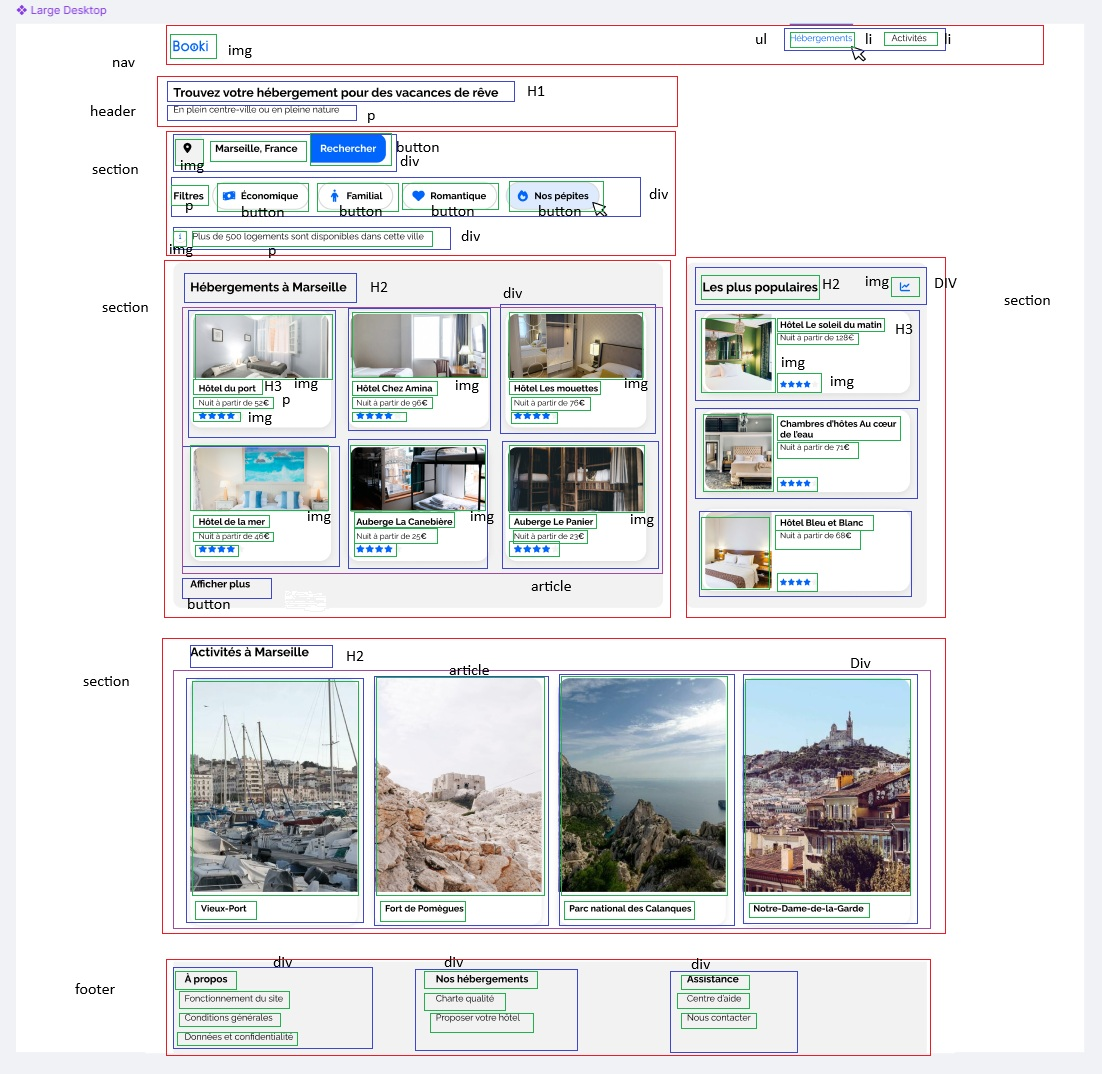
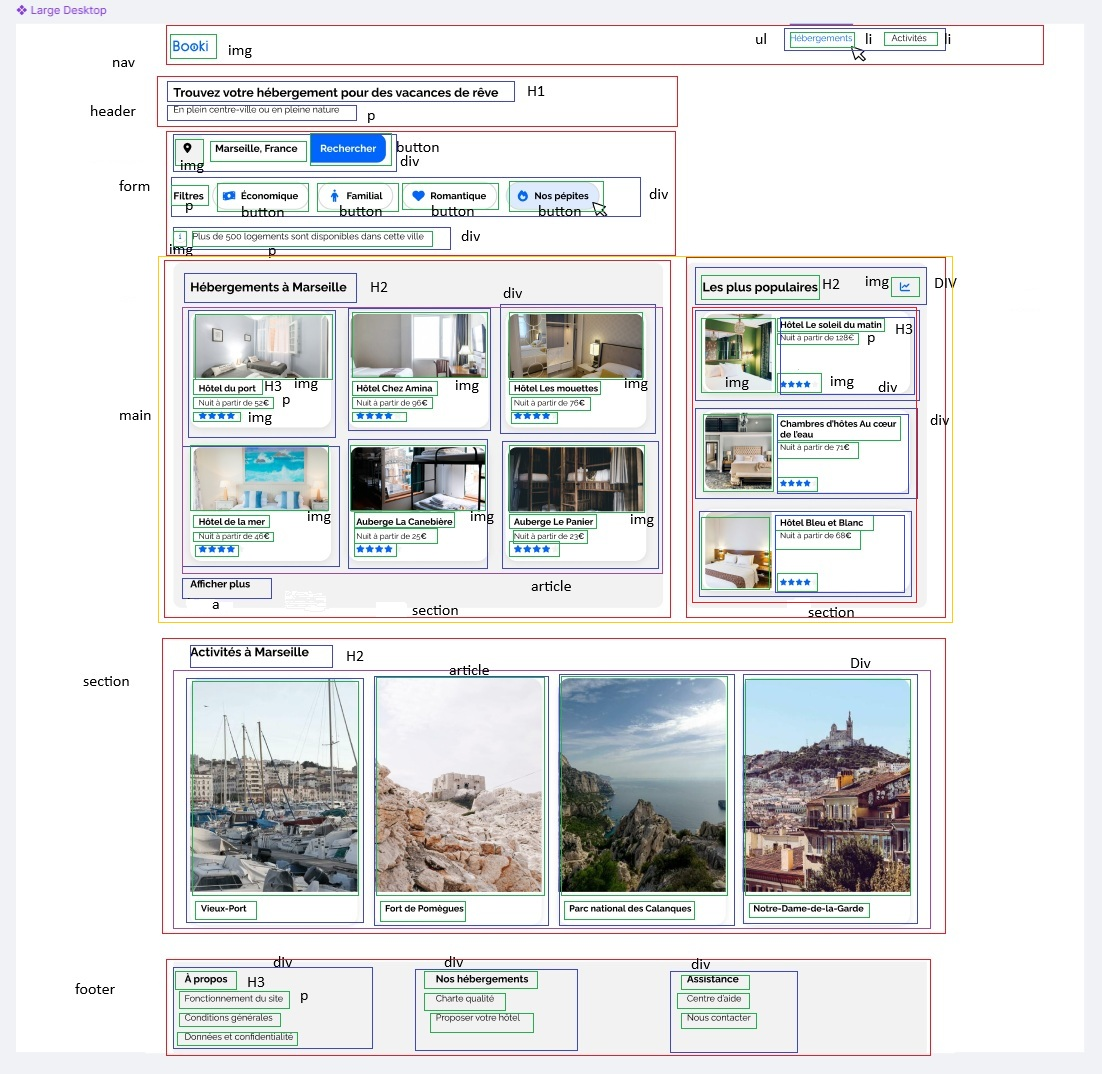
maquettage html de la partie hebergements, populaires,activités et footer

diff --git a/index.html b/index.html
@@ -28,6 +28,7 @@
         <h1>Trouvez votre hébergement pour les vacances de rêve</h1>
         <p>En plain centre-ville ou en plaine nature</p>
     </header>
+    <!-- formulaire de recherche et filtres -->
     <form action="" method="get">
         <div>
             <i class="fa-solid fa-location-dot"></i>
@@ -41,10 +42,20 @@
             <!-- info -->
         </div>
     </form>
+    <!-- partie principakle du site avec les hebergements et les plus populaires -->
     <main class="hebergements-and-populaires">
         <section class="hebergements">
             <h2>Hébergements à Marseille</h2>
             <div class="hebergements">
+                <article>
+                    <img src="./images/hebergements/fred-kleber.jpg" alt="image chambre fenetre ouverte avec 2 lits">
+                    <h3>Hôtel du port</h3>
+                    <p>Nuit à partir de 52€</p>
+                    <i class="fa-solid fa-star" aria-hidden="true"></i>
+                    <i class="fa-solid fa-star" aria-hidden="true"></i>
+                    <i class="fa-solid fa-star" aria-hidden="true"></i>
+                    <i class="fa-solid fa-star" aria-hidden="true"></i>
+                </article>
                 <article>
                     <img src="./images/hebergements/febrian-zakaria.jpg" alt="image chambre fenetre ferme avec 2 lits et un bureau">
                     <h3>Hôtel chez Amina</h3>
@@ -64,114 +75,132 @@
                     <i class="fa-solid fa-star" aria-hidden="true"></i>
                 </article>
                 <article>
-                    <!-- a poursuivre -->
-                    <img src="./images/hebergements/marcus-loke.jpg" alt="image chambre fenetre ouverte avec 2 lits">
-                    <h3>Hôtel du port</h3>
-                    <p>Nuit à partir de 52€</p>
+                    <img src="./images/hebergements/annie-spratt.jpg" alt="image chambre avec 1 lit et la mer au mur">
+                    <h3>Hôtel de la mer</h3>
+                    <p>Nuit à partir de 46€</p>
                     <i class="fa-solid fa-star" aria-hidden="true"></i>
                     <i class="fa-solid fa-star" aria-hidden="true"></i>
                     <i class="fa-solid fa-star" aria-hidden="true"></i>
                     <i class="fa-solid fa-star" aria-hidden="true"></i>
                 </article>
                 <article>
-                    <img src="./images/hebergements/marcus-loke.jpg" alt="image chambre fenetre ouverte avec 2 lits">
-                    <h3>Hôtel du port</h3>
-                    <p>Nuit à partir de 52€</p>
+                    <img src="./images/hebergements/marcus-loke.jpg" alt="image chambre avec 2 lits superposés">
+                    <h3>Auberge La Canebière</h3>
+                    <p>Nuit à partir de 25€</p>
                     <i class="fa-solid fa-star" aria-hidden="true"></i>
                     <i class="fa-solid fa-star" aria-hidden="true"></i>
                     <i class="fa-solid fa-star" aria-hidden="true"></i>
                     <i class="fa-solid fa-star" aria-hidden="true"></i>
                 </article>
                 <article>
-                    <img src="./images/hebergements/marcus-loke.jpg" alt="image chambre fenetre ouverte avec 2 lits">
-                    <h3>Hôtel du port</h3>
-                    <p>Nuit à partir de 52€</p>
-                    <i class="fa-solid fa-star" aria-hidden="true"></i>
-                    <i class="fa-solid fa-star" aria-hidden="true"></i>
-                    <i class="fa-solid fa-star" aria-hidden="true"></i>
-                    <i class="fa-solid fa-star" aria-hidden="true"></i>
-                </article>
-                <article>
-                    <img src="./images/hebergements/marcus-loke.jpg" alt="image chambre fenetre ouverte avec 2 lits">
-                    <h3>Hôtel du port</h3>
-                    <p>Nuit à partir de 52€</p>
+                    <img src="./images/hebergements/nicate-lee.jpg" alt="image chambre avec lits superposés en bois">
+                    <h3>Auberge Le Panier</h3>
+                    <p>Nuit à partir de 23€</p>
                     <i class="fa-solid fa-star" aria-hidden="true"></i>
                     <i class="fa-solid fa-star" aria-hidden="true"></i>
                     <i class="fa-solid fa-star" aria-hidden="true"></i>
                     <i class="fa-solid fa-star" aria-hidden="true"></i>
                 </article>
             </div>
+            <a href="#">Afficher plus</a>
         </section>
-            </section>
-                <section class="populaires">
-                    <div class="populaires-title">
+        <section class="populaires">
+                    <div >
                         <h2 class="section-title">Les plus populaires</h2>
                         <i class="fa-solid fa-chart-line" aria-hidden="true"></i>
                     </div>
                     <div class="populaires-cards">
-                        <a href="#">
-                            <article class="card">
-                                <img src="./images/hebergements/emile-guillemot.jpg" alt="Image de la chambre d'hôtel montrant un lit">
-                                <div class="card-content">
-                                    <div class="card-txt">
-                                        <h3 class="card-title">Hôtel Le soleil du matin</h3>
-                                        <p class="card-subtitle">Nuit à partir de 128<span class="euro">€</span></p>
-                                    </div>
-                                    <div class="card-rating">
-                                        <i class="fa-xs fa-solid fa-star" aria-hidden="true"></i>
-                                        <i class="fa-xs fa-solid fa-star" aria-hidden="true"></i>
-                                        <i class="fa-xs fa-solid fa-star" aria-hidden="true"></i>
-                                        <i class="fa-xs fa-solid fa-star" aria-hidden="true"></i>
-                                        <i class="fa-xs fa-solid fa-star neutral-star" aria-hidden="true"></i>
-                                        <span class="sr-only">Note de 4 sur 5</span>
-                                    </div>
+                        <article class="card">
+                            <div> 
+                                <img src="./images/hebergements/emile-guillemot.jpg" alt="Image de la chambre d'hôtel verte montrant un lit">
+                            </div>
+                            <div>
+                                <h3 >Hôtel Le soleil du matin</h3>
+                                <p >Nuit à partir de 128€</p>
+                                <div>
+                                    <i class="fa-solid fa-star" aria-hidden="true"></i>
+                                    <i class="fa-solid fa-star" aria-hidden="true"></i>
+                                    <i class="fa-solid fa-star" aria-hidden="true"></i>
+                                    <i class="fa-solid fa-star" aria-hidden="true"></i>
                                 </div>
-                            </article>
-                        </a>
-                        <a href="#">
-                            <article class="card">
-                                <img src="./images/hebergements/aw-creative.jpg" alt="Image de la chambre d'hôtel montrant un lit">
-                                <div class="card-content">
-                                    <div class="card-txt">
-                                        <h3 class="card-title">Chambres d’hôtes Au cœur de l’eau</h3>
-                                        <p class="card-subtitle">Nuit à partir de 71<span class="euro">€</span></p>
-                                    </div>
-                                    <div class="card-rating">
-                                        <i class="fa-xs fa-solid fa-star" aria-hidden="true"></i>
-                                        <i class="fa-xs fa-solid fa-star" aria-hidden="true"></i>
-                                        <i class="fa-xs fa-solid fa-star" aria-hidden="true"></i>
-                                        <i class="fa-xs fa-solid fa-star" aria-hidden="true"></i>
-                                        <i class="fa-xs fa-solid fa-star neutral-star" aria-hidden="true"></i>
-                                        <span class="sr-only">Note de 4 sur 5</span>
-                                    </div>
+                            </div>
+                        </article>
+                        <article class="card">
+                            <div> 
+                                <img src="/images/hebergements/aw-creative.jpg" alt="Image de la chambre d'hôtel suite">
+                            </div>
+                            <div>
+                                <h3 >Chambre d'hôtes Au coeur de l'eau</h3>
+                                <p >Nuit à partir de 75€</p>
+                                <div>
+                                    <i class="fa-solid fa-star" aria-hidden="true"></i>
+                                    <i class="fa-solid fa-star" aria-hidden="true"></i>
+                                    <i class="fa-solid fa-star" aria-hidden="true"></i>
+                                    <i class="fa-solid fa-star" aria-hidden="true"></i>
                                 </div>
-                            </article>
-                        </a>
-                        <a href="#">
-                            <article class="card">
-                                <img src="./images/hebergements/febrian-zakaria2.jpg" alt="Image de la chambre d'hôtel montrant un lit">
-                                <div class="card-content">
-                                    <div class="card-txt">
-                                        <h3 class="card-title">Hôtel Bleu et Blanc</h3>
-                                        <p class="card-subtitle">Nuit à partir de 68<span class="euro">€</span></p>
-                                    </div>
-                                    <div class="card-rating">
-                                        <i class="fa-xs fa-solid fa-star" aria-hidden="true"></i>
-                                        <i class="fa-xs fa-solid fa-star" aria-hidden="true"></i>
-                                        <i class="fa-xs fa-solid fa-star" aria-hidden="true"></i>
-                                        <i class="fa-xs fa-solid fa-star" aria-hidden="true"></i>
-                                        <i class="fa-xs fa-solid fa-star neutral-star" aria-hidden="true"></i>
-                                        <span class="sr-only">Note de 4 sur 5</span>
-                                    </div>
+                            </div>
+                        </article>
+                        <article class="card">
+                            <div> 
+                                <img src="./images/hebergements/febrian-zakaria2.jpg" alt="Image de la chambre d'hôtel avec couvre-lit leopard">
+                            </div>
+                            <div>
+                                <h3 >Hôtel Bleu et Blanc</h3>
+                                <p >Nuit à partir de 68€</p>
+                                <div>
+                                    <i class="fa-solid fa-star" aria-hidden="true"></i>
+                                    <i class="fa-solid fa-star" aria-hidden="true"></i>
+                                    <i class="fa-solid fa-star" aria-hidden="true"></i>
+                                    <i class="fa-solid fa-star" aria-hidden="true"></i>
                                 </div>
-                            </article>
-                        </a>
+                            </div>
+                        </article>
                     </div>
-                </section>
-            </section>
-        </main>
-        <footer></footer>
-    </div>
+        </section>
+    </main>
+    <!-- section activités marseille avec 4 cards( image et titre h3) et un titre H2 -->
+    <section>
+        <div>
+            <h2>Activités à Marseille</h2>
+        </div>
+        <div>
+            <article>
+                <img src="images/activites/reno-laithienne.jpg" alt="image du vieux port de Marseille avec plein de bateaux">
+                <h3>Vieux-Port</h3>
+            </article>
+            <article>
+                <img src="images/activites/paul-hermann.jpg" alt="image du fort de Pomegues sur une montagne">
+                <h3>Fort de Pomègues</h3>
+            </article>
+            <article>
+                <img src="images/activites/kilyan-sockalingum.jpg" alt="vue sur les calanques et la mer">
+                <h3>Parc national des Calanques</h3>
+            </article>
+            <article>
+                <img src="images/activites/florian-wehde.jpg" alt="image de l'eglise Notre Dame de la Garde">
+                <h3>Notre-Dame-de-la-Garde</h3>
+            </article>
+        </div>
+    </section>
+    <!-- footer composer de 3 div composer d'un titre et de liens -->
+    <footer>
+        <div>
+            <h4>A propos</h4>
+            <a href="#">Fonctionnement du site</a>
+            <a href="#">Conditions générales</a>
+            <a href="#">Données et confidentialité</a>
+        </div>
+        <div>
+            <h4>Nos hébergements</h4>
+            <a href="#">Charte qualité</a>
+            <a href="#">Proposer votre hôtel</a>
+        </div>
+        <div>
+            <h4>Assistance</h4>
+            <a href="#">Centre d'aide</a>
+            <a href="#">Nous contacter</a>
+        </div>
+    </footer>
 </body>
 
 </html>
